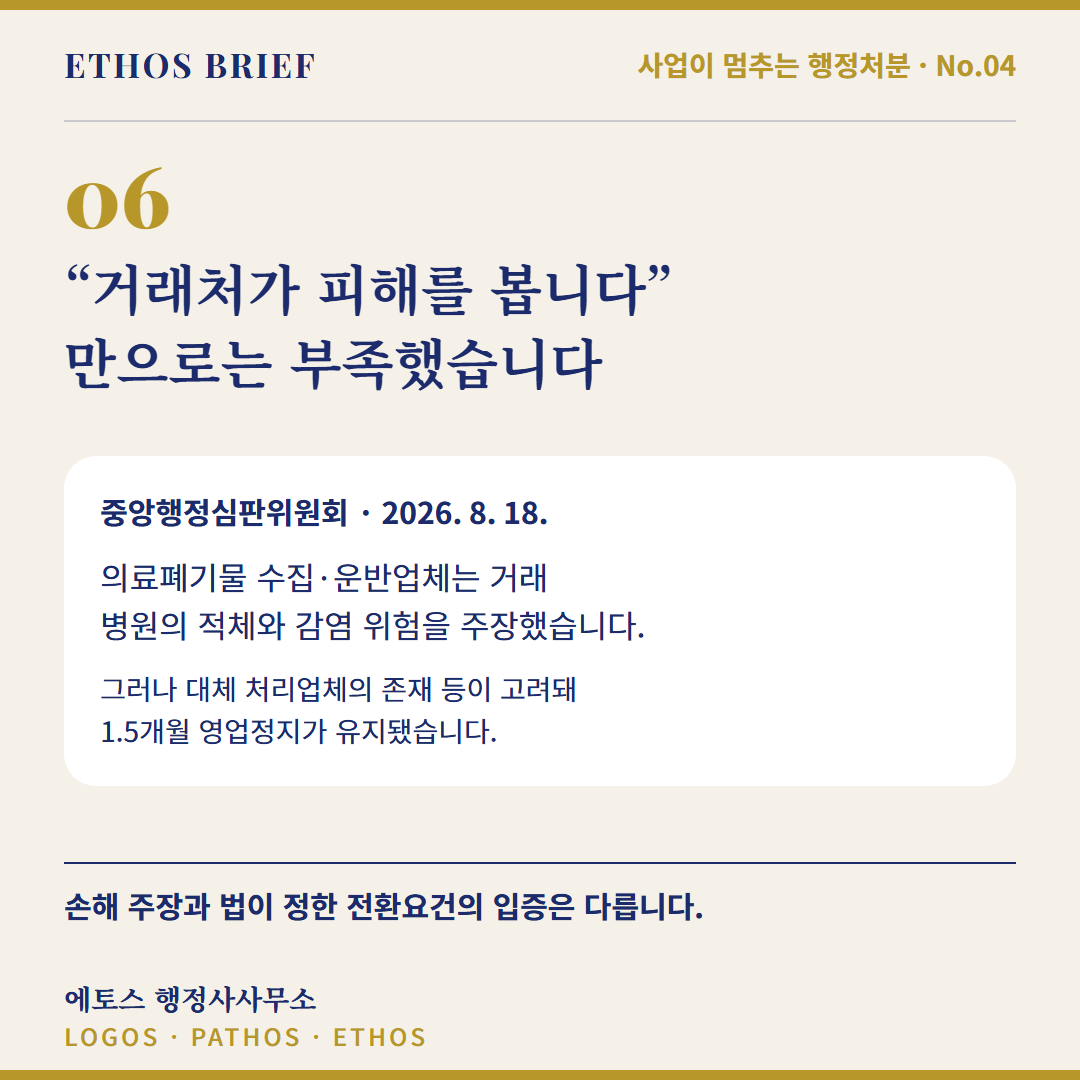
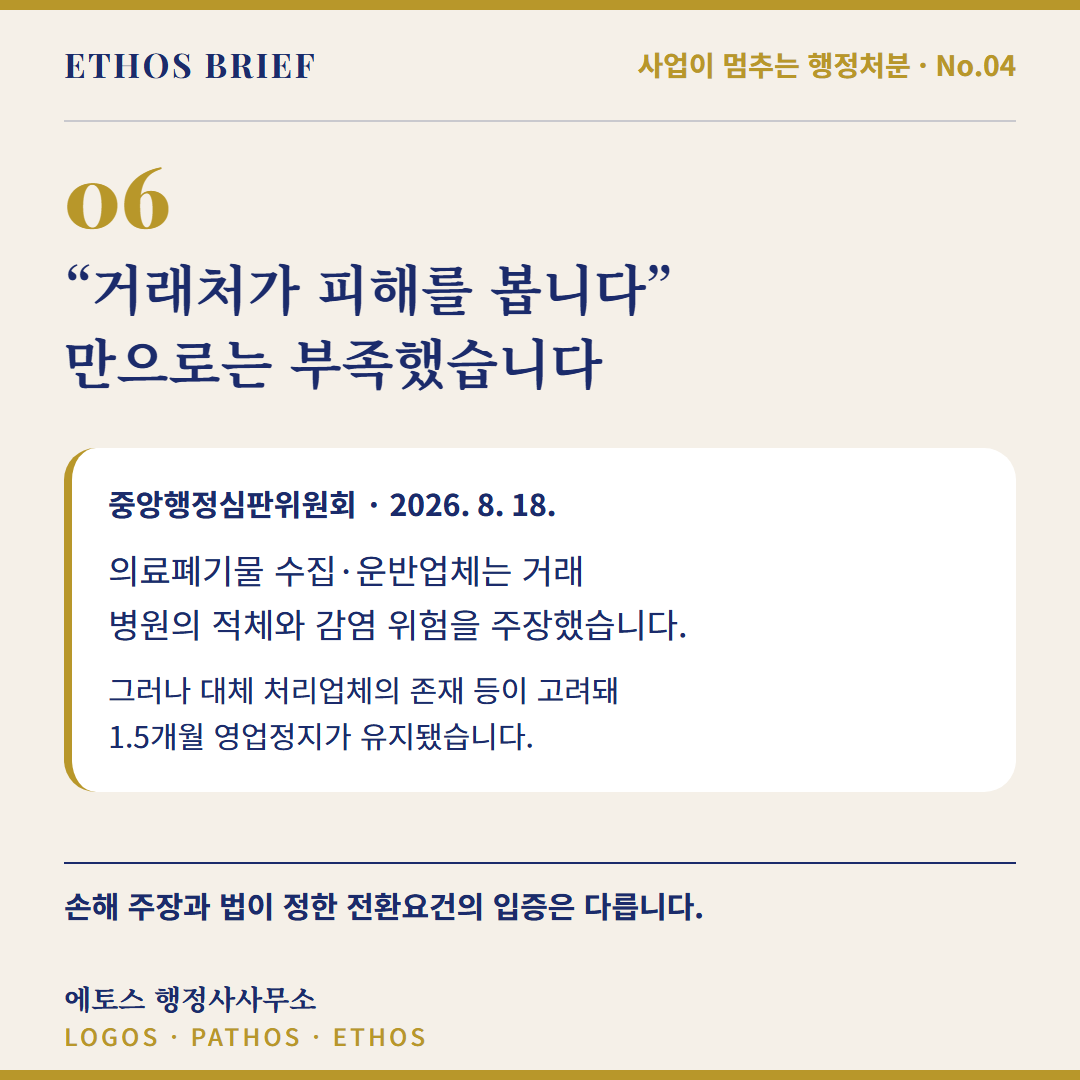
feat: improve reusable card layouts

Changed region(s): [[0.0611, 0.4278, 0.6417, 0.7333]]

diff --git a/templates/card-types.css b/templates/card-types.css
@@ -24,7 +24,7 @@
 .cover-lead { font-size:18px; line-height:1.58; color:#FFFFFF; margin:18px 0; }
 .cover-quote { border:1px solid var(--ethos-gold); border-radius:18px; padding:18px 22px; font-weight:700; font-size:18px; line-height:1.55; color:#FFFFFF; }
 .kicker-num { font-family:"ETHOS Display"; font-weight:900; font-size:42px; line-height:1; color:var(--ethos-gold); margin-bottom:7px; }
-.authority-panel { background:#FFFFFF; border-radius:16px; padding:17px 18px; box-shadow:var(--shadow-editorial); }
+.authority-panel { background:#FFFFFF; border-radius:16px; border-left:4px solid var(--ethos-gold); padding:17px 18px; box-shadow:var(--shadow-editorial); }
 .authority-label { color:var(--ethos-navy); font-weight:700; font-size:15px; line-height:1.4; margin-bottom:10px; }
 .authority-text { color:var(--ethos-navy); font-size:16px; line-height:1.55; }
 .authority-note { color:var(--ethos-navy); font-size:14px; line-height:1.5; margin-top:9px; }
@@ -41,6 +41,13 @@
 .split-copy { font-size:14px; line-height:1.52; }
 .navy .split-copy { color:#FFFFFF; }
 .cream .split-copy { color:var(--ethos-navy); }
+.split-3 { grid-template-columns:1fr; gap:0; }
+.split-3 .split-col { display:grid; grid-template-columns:120px 1fr; gap:14px; align-items:start; padding:9px 0; border-top:1px solid rgba(27,43,107,.2); }
+.navy .split-3 .split-col { border-top-color:rgba(245,240,232,.27); }
+.split-3 .split-col:last-child { border-bottom:1px solid rgba(27,43,107,.2); }
+.navy .split-3 .split-col:last-child { border-bottom-color:rgba(245,240,232,.27); }
+.split-3 .split-col + .split-col { border-left:0; padding-left:0; }
+.split-3 .split-title { margin-bottom:0; }
 .rule-list { display:flex; flex-direction:column; }
 .rule-item { padding:11px 0; border-top:1px solid rgba(245,240,232,.27); display:grid; grid-template-columns:92px 1fr; gap:10px; }
 .rule-item:last-child { border-bottom:1px solid rgba(245,240,232,.27); }
@@ -86,6 +93,11 @@
 .process-copy { font-size:14px; line-height:1.4; }
 .navy .process-copy { color:#FFFFFF; }
 .cream .process-copy { color:var(--ethos-navy); }
+.process-4 { gap:10px; }
+.process-4 .process-step { min-height:72px; padding:14px 13px; border:1px solid rgba(245,240,232,.27); border-radius:12px; background:rgba(255,255,255,.06); }
+.cream .process-4 .process-step { border-color:rgba(27,43,107,.18); background:#FFFFFF; box-shadow:var(--shadow-editorial); }
+.lang-ko .authority-text { font-size:17px; line-height:1.56; }
+.lang-ko .authority-note { font-size:15px; line-height:1.5; }
 
 /* Cream cards reserve gold for framing, rules, and decorative numerals. */
 .cream :is(.h2, .authority-label, .authority-text, .authority-note, .qt, .qd, .split-title, .split-copy, .rule-key, .rule-copy, .question, .threshold-key, .threshold-copy, .six-copy, .process-copy, .editorial-close, .body-text, .page-turn) {

diff --git a/content/SUSPENSION-SURCHARGE-04/ko/card_04.html b/content/SUSPENSION-SURCHARGE-04/ko/card_04.html
@@ -11,7 +11,7 @@
   <div class="hl" data-frame="line"></div>
   <div class="body">
     <div class="z-title" data-zone="title"><div class="kicker-num" data-decor>04</div><h2 class="h2" data-role="headline">음식점·폐기물·건설업, 출발점이 다릅니다</h2></div>
-    <div class="z-main" data-zone="main"><div class="split"><div class="split-col"><div class="split-title" data-role="subheading">음식점</div><div class="split-copy">과징금 규정이 있어도 위반유형·차수·제외대상을 확인</div></div><div class="split-col"><div class="split-title" data-role="subheading">폐기물</div><div class="split-copy">법정 전환요건과 과거 과징금 처분까지 확인</div></div><div class="split-col"><div class="split-title" data-role="subheading">건설업</div><div class="split-copy">제82조 처분인지 제83조 등록기준 문제인지 구분</div></div></div></div>
+    <div class="z-main" data-zone="main"><div class="split split-3"><div class="split-col"><div class="split-title" data-role="subheading">음식점</div><div class="split-copy">과징금 규정이 있어도 위반유형·차수·제외대상을 확인</div></div><div class="split-col"><div class="split-title" data-role="subheading">폐기물</div><div class="split-copy">법정 전환요건과 과거 과징금 처분까지 확인</div></div><div class="split-col"><div class="split-title" data-role="subheading">건설업</div><div class="split-copy">제82조 처분인지 제83조 등록기준 문제인지 구분</div></div></div></div>
     <div class="z-take" data-zone="take"><div class="take" data-role="takeaway">업종명보다 처분근거 조항을 먼저 보세요.</div></div>
   </div>
 

diff --git a/content/SUSPENSION-SURCHARGE-04/en/card_05.html b/content/SUSPENSION-SURCHARGE-04/en/card_05.html
@@ -11,7 +11,7 @@
   <div class="hl" data-frame="line"></div>
   <div class="body">
     <div class="z-title" data-zone="title"><div class="kicker-num" data-decor>05</div><h2 class="h2" data-role="headline">Screen surcharge eligibility in this order</h2></div>
-    <div class="z-main" data-zone="main"><div class="process-steps"><div class="process-step"><div class="process-num" data-decor>01</div><div class="process-copy">Enabling provision</div></div><div class="process-step"><div class="process-num" data-decor>02</div><div class="process-copy">Statutory exclusions</div></div><div class="process-step"><div class="process-num" data-decor>03</div><div class="process-copy">Prior-disposition limits</div></div><div class="process-step"><div class="process-num" data-decor>04</div><div class="process-copy">Substantive conditions</div></div></div></div>
+    <div class="z-main" data-zone="main"><div class="process-steps process-4"><div class="process-step"><div class="process-num" data-decor>01</div><div class="process-copy">Enabling provision</div></div><div class="process-step"><div class="process-num" data-decor>02</div><div class="process-copy">Statutory exclusions</div></div><div class="process-step"><div class="process-num" data-decor>03</div><div class="process-copy">Prior-disposition limits</div></div><div class="process-step"><div class="process-num" data-decor>04</div><div class="process-copy">Substantive conditions</div></div></div></div>
     <div class="z-take" data-zone="take"><div class="editorial-close" data-role="takeaway">If an early gate fails, consider another response before calculating the amount.</div></div>
   </div>
 

diff --git a/content/SUSPENSION-SURCHARGE-04/en/card_04.html b/content/SUSPENSION-SURCHARGE-04/en/card_04.html
@@ -11,7 +11,7 @@
   <div class="hl" data-frame="line"></div>
   <div class="body">
     <div class="z-title" data-zone="title"><div class="kicker-num" data-decor>04</div><h2 class="h2" data-role="headline">Food, waste and construction cases start in different places</h2></div>
-    <div class="z-main" data-zone="main"><div class="split"><div class="split-col"><div class="split-title" data-role="subheading">Food service</div><div class="split-copy">check the violation, count and exclusions</div></div><div class="split-col"><div class="split-title" data-role="subheading">Waste</div><div class="split-copy">prove the statutory conditions and check prior surcharge history</div></div><div class="split-col"><div class="split-title" data-role="subheading">Construction</div><div class="split-copy">distinguish Article 82 from an Article 83 registration case</div></div></div></div>
+    <div class="z-main" data-zone="main"><div class="split split-3"><div class="split-col"><div class="split-title" data-role="subheading">Food service</div><div class="split-copy">check the violation, count and exclusions</div></div><div class="split-col"><div class="split-title" data-role="subheading">Waste</div><div class="split-copy">prove the statutory conditions and check prior surcharge history</div></div><div class="split-col"><div class="split-title" data-role="subheading">Construction</div><div class="split-copy">distinguish Article 82 from an Article 83 registration case</div></div></div></div>
     <div class="z-take" data-zone="take"><div class="take" data-role="takeaway">Start with the legal basis, not the industry label.</div></div>
   </div>
 

diff --git a/content/SUSPENSION-SURCHARGE-04/ko/card_05.html b/content/SUSPENSION-SURCHARGE-04/ko/card_05.html
@@ -11,7 +11,7 @@
   <div class="hl" data-frame="line"></div>
   <div class="body">
     <div class="z-title" data-zone="title"><div class="kicker-num" data-decor>05</div><h2 class="h2" data-role="headline">과징금 전환 가능성, 이 순서로 거르세요</h2></div>
-    <div class="z-main" data-zone="main"><div class="process-steps"><div class="process-step"><div class="process-num" data-decor>01</div><div class="process-copy">근거 규정</div></div><div class="process-step"><div class="process-num" data-decor>02</div><div class="process-copy">제외대상</div></div><div class="process-step"><div class="process-num" data-decor>03</div><div class="process-copy">과거 처분 제한</div></div><div class="process-step"><div class="process-num" data-decor>04</div><div class="process-copy">법정 실질요건</div></div></div></div>
+    <div class="z-main" data-zone="main"><div class="process-steps process-4"><div class="process-step"><div class="process-num" data-decor>01</div><div class="process-copy">근거 규정</div></div><div class="process-step"><div class="process-num" data-decor>02</div><div class="process-copy">제외대상</div></div><div class="process-step"><div class="process-num" data-decor>03</div><div class="process-copy">과거 처분 제한</div></div><div class="process-step"><div class="process-num" data-decor>04</div><div class="process-copy">법정 실질요건</div></div></div></div>
     <div class="z-take" data-zone="take"><div class="editorial-close" data-role="takeaway">앞 단계에서 막히면 금액 계산보다 다른 대응방향을 먼저 검토합니다.</div></div>
   </div>
 

diff --git a/content/SUSPENSION-SURCHARGE-04/ko/card_08.html b/content/SUSPENSION-SURCHARGE-04/ko/card_08.html
@@ -11,7 +11,7 @@
   <div class="hl" data-frame="line"></div>
   <div class="body">
     <div class="z-title" data-zone="title"><div class="kicker-num" data-decor>08</div><h2 class="h2" data-role="headline">바꿀 수 있어도, 유리한지는 다시 계산해야 합니다</h2></div>
-    <div class="z-main" data-zone="main"><div class="split"><div class="split-col"><div class="split-title" data-role="subheading">과징금 전환 시</div><div class="split-copy">예상 과징금</div></div><div class="split-col"><div class="split-title" data-role="subheading">영업정지 유지 시</div><div class="split-copy">예상 영업손실 및 계속 나가는 고정비</div></div><div class="split-col"><div class="split-title" data-role="subheading">별도 확인</div><div class="split-copy">향후 반복위반 판단에 미칠 영향</div></div></div></div>
+    <div class="z-main" data-zone="main"><div class="split split-3"><div class="split-col"><div class="split-title" data-role="subheading">과징금 전환 시</div><div class="split-copy">예상 과징금</div></div><div class="split-col"><div class="split-title" data-role="subheading">영업정지 유지 시</div><div class="split-copy">예상 영업손실 및 계속 나가는 고정비</div></div><div class="split-col"><div class="split-title" data-role="subheading">별도 확인</div><div class="split-copy">향후 반복위반 판단에 미칠 영향</div></div></div></div>
     <div class="z-take" data-zone="take"><div class="editorial-close" data-role="takeaway">가능하다는 결론 뒤에 비용과 다음 처분까지 비교하세요.</div></div>
   </div>
 

diff --git a/content/SUSPENSION-SURCHARGE-04/en/card_08.html b/content/SUSPENSION-SURCHARGE-04/en/card_08.html
@@ -11,7 +11,7 @@
   <div class="hl" data-frame="line"></div>
   <div class="body">
     <div class="z-title" data-zone="title"><div class="kicker-num" data-decor>08</div><h2 class="h2" data-role="headline">Even if available, is conversion actually better?</h2></div>
-    <div class="z-main" data-zone="main"><div class="split"><div class="split-col"><div class="split-title" data-role="subheading">Convert</div><div class="split-copy">estimated surcharge</div></div><div class="split-col"><div class="split-title" data-role="subheading">Stay suspended</div><div class="split-copy">expected operating loss and continuing fixed costs</div></div><div class="split-col"><div class="split-title" data-role="subheading">Check separately</div><div class="split-copy">effect on a future repeat-violation analysis</div></div></div></div>
+    <div class="z-main" data-zone="main"><div class="split split-3"><div class="split-col"><div class="split-title" data-role="subheading">Convert</div><div class="split-copy">estimated surcharge</div></div><div class="split-col"><div class="split-title" data-role="subheading">Stay suspended</div><div class="split-copy">expected operating loss and continuing fixed costs</div></div><div class="split-col"><div class="split-title" data-role="subheading">Check separately</div><div class="split-copy">effect on a future repeat-violation analysis</div></div></div></div>
     <div class="z-take" data-zone="take"><div class="editorial-close" data-role="takeaway">After eligibility, compare cost and the effect on the next disposition.</div></div>
   </div>
 

diff --git a/scripts/build_cards.py b/scripts/build_cards.py
@@ -54,13 +54,13 @@ def main_markup(card, language):
         for item in body:
             title, copy = split_label(item)
             cols.append(f'<div class="split-col"><div class="split-title" data-role="subheading">{esc(title)}</div><div class="split-copy">{esc(copy)}</div></div>')
-        return '<div class="split">' + ''.join(cols) + '</div>'
+        return f'<div class="split split-{len(cols)}">' + ''.join(cols) + '</div>'
     if kind == "process":
         items = []
         for index, copy in enumerate(body, 1):
             clean = strip_step_prefix(copy)
             items.append(f'<div class="process-step"><div class="process-num" data-decor>{index:02d}</div><div class="process-copy">{esc(clean)}</div></div>')
-        return '<div class="process-steps">' + ''.join(items) + '</div>'
+        return f'<div class="process-steps process-{len(items)}">' + ''.join(items) + '</div>'
     if kind == "checklist" and page == 6:
         return '<div class="question-grid">' + ''.join(f'<div class="question">{esc(x)}</div>' for x in body) + '</div>'
     if kind == "checklist":

diff --git a/scripts/marketing_review.py b/scripts/marketing_review.py
@@ -58,12 +58,12 @@ def review(data):
     readability = 5 if len(set(types)) >= 4 else 0
     readability += 5 if "checklist" in types and "process" in types else 0
     readability += 5 if all(len(card.get("body", [])) <= 6 for card in cards) else 0
-    text_limit = 180 if lang == "ko" else 420
+    text_limit = 180 if lang == "ko" else 300
     longest = max((compact_len(card.get("headline", "") + "".join(card.get("body", [])) + card.get("takeaway", "")) for card in cards), default=0)
     if longest <= text_limit:
         readability += 5
     else:
-        notes.append(f"{lang}: 가장 긴 카드 {longest}자 — 축소 시트에서만 최종 판단")
+        notes.append(f"{lang}: 가장 긴 카드 {longest}자 — 글자를 줄이기 전에 문장 구조와 중복 표현을 압축하고 축소 시트 확인")
     scores["readability"] = readability
 
     save = 6 if "checklist" in types else 0

diff --git a/AGENTS.md b/AGENTS.md
@@ -50,6 +50,10 @@
 - `pageTurn`은 다음 장에서 이어질 판단을 점검하는 편집 메타데이터로만 사용하며 실제 카드에는 표시하지 않는다. 가짜 긴장이나 “다음 장에서 공개”는 쓰지 않는다.
 - 카드 우측 하단 쪽수는 표시하지 않는다. 프레임 QA용 영역은 유지하되 발행 이미지에는 숫자를 렌더하지 않는다.
 - Golden Reference처럼 큰 제목, 충분한 여백, 네이비·크림 리듬, 골드의 절제, 카드별 하나의 시각적 중심을 우선한다.
+- 비교 항목이 3개면 `2+1` 비대칭 박스 배치를 피하고 공통 `comparison`의 균등 3단 구조를 사용한다.
+- 4단계 `process`는 숫자만 나열하지 말고 공통 단계 블록으로 시각적 중심을 만든다.
+- 사례·재결 `quote` 카드는 본문을 과도하게 줄이지 말고 인용 패널의 좌측 골드 레일과 충분한 본문 크기를 유지한다.
+- 영문이 조밀하면 자동으로 글자를 줄이지 않는다. 국문과 같은 사실·한정어를 보존하면서 문장 구조와 중복 표현을 먼저 압축한다.
 - QA가 PASS여도 축소 시트가 답답하거나 어색하면 완료가 아니다. 반대로 권고 경고가 있어도 사람이 보기에 자연스럽고 읽기 좋으면 허용한다.
 - 표지는 2초 안에 대상과 문제를 전달하도록 구체 상황·질문·대비 중 하나를 사용하되 클릭베이트를 만들지 않는다.
 - 마지막 CTA에는 실제로 받을 수 있는 자료와 실제로 확인해 줄 결과를 구체적으로 적는다. 원문이나 승인된 서비스 범위를 넘어선 약속은 만들지 않는다.

diff --git a/content/SUSPENSION-SURCHARGE-04/out/ko/qa-report.md b/content/SUSPENSION-SURCHARGE-04/out/ko/qa-report.md
@@ -6,17 +6,14 @@
 |---|---|---|---|---|---|
 | card_01.html | cover | 84 | 0.6 | 26 | PASS |
 | card_02.html | checklist | 97 | 0.79 | 26 | PASS |
-| card_03.html | quote | 139 | 0.63 | 26 | PASS |
-| card_04.html | comparison | 113 | 0.8 | 26 | PASS |
-| card_05.html | process | 76 | 0.3 | 26 | PASS |
-| card_06.html | quote | 133 | 0.75 | 26 | PASS |
+| card_03.html | quote | 139 | 0.66 | 26 | PASS |
+| card_04.html | comparison | 113 | 0.62 | 26 | PASS |
+| card_05.html | process | 76 | 0.59 | 26 | PASS |
+| card_06.html | quote | 133 | 0.78 | 26 | PASS |
 | card_07.html | checklist | 93 | 0.83 | 26 | PASS |
-| card_08.html | comparison | 97 | 0.66 | 26 | PASS |
+| card_08.html | comparison | 97 | 0.7 | 26 | PASS |
 | card_09.html | concept | 125 | 0.79 | 26 | PASS |
 | card_10.html | cta | 146 | 0.82 | 26 | PASS |
-
-### card_05.html 권고
-- main-fill 0.30 < 권장 0.4 (여백이 의도적인지 시각 확인)
 
 ## 사람이 확인할 것 (자동화 불가)
 - [ ] 법령·판례 해석이 원문과 일치하는가 (변호사·행정사 최종 확인)

diff --git a/content/SUSPENSION-SURCHARGE-04/out/en/qa-report.md b/content/SUSPENSION-SURCHARGE-04/out/en/qa-report.md
@@ -6,12 +6,12 @@
 |---|---|---|---|---|---|
 | card_01.html | cover | 178 | 0.63 | 26 | PASS |
 | card_02.html | checklist | 228 | 0.67 | 26 | PASS |
-| card_03.html | quote | 326 | 0.62 | 26 | PASS |
-| card_04.html | comparison | 268 | 0.9 | 26 | PASS |
-| card_05.html | process | 196 | 0.39 | 26 | PASS |
+| card_03.html | quote | 326 | 0.73 | 26 | PASS |
+| card_04.html | comparison | 268 | 0.8 | 26 | PASS |
+| card_05.html | process | 196 | 0.77 | 26 | PASS |
 | card_06.html | quote | 332 | 0.66 | 26 | PASS |
 | card_07.html | checklist | 246 | 0.81 | 26 | PASS |
-| card_08.html | comparison | 242 | 0.84 | 26 | PASS |
+| card_08.html | comparison | 242 | 0.9 | 26 | PASS |
 | card_09.html | concept | 258 | 0.98 | 26 | PASS |
 | card_10.html | cta | 262 | 0.85 | 26 | PASS |
 
@@ -28,7 +28,6 @@
 - headline-chars 52 > 권장 34
 
 ### card_05.html 권고
-- main-fill 0.39 < 권장 0.4 (여백이 의도적인지 시각 확인)
 - chars 196 > 권장 180 (가독성 확인)
 - headline-chars 37 > 권장 34
 
